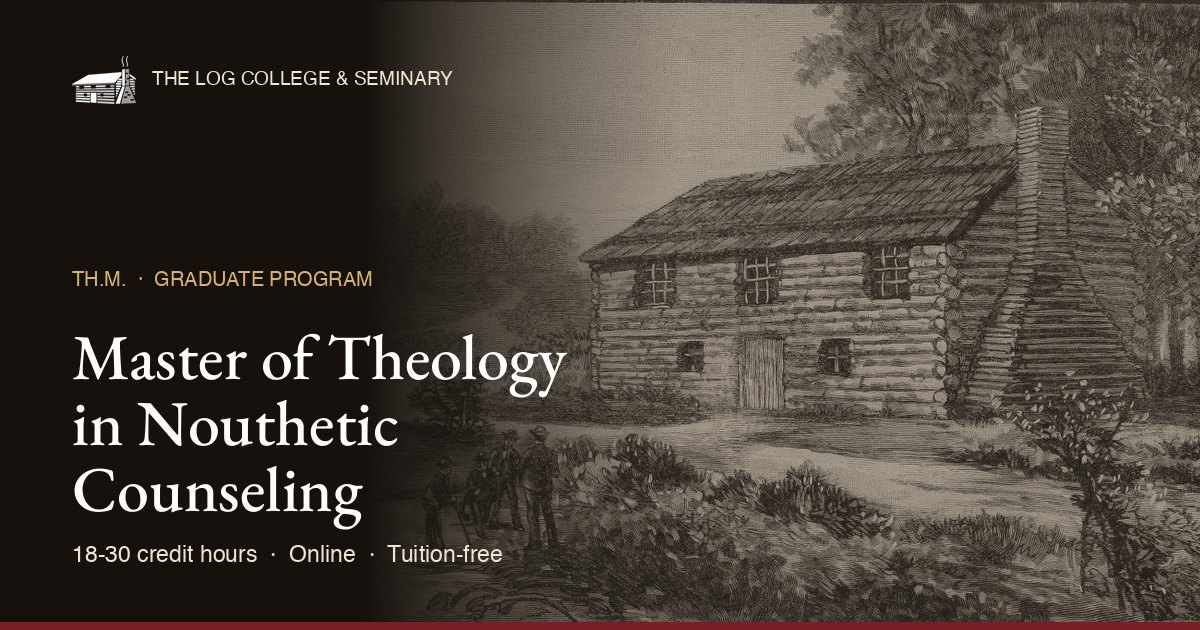
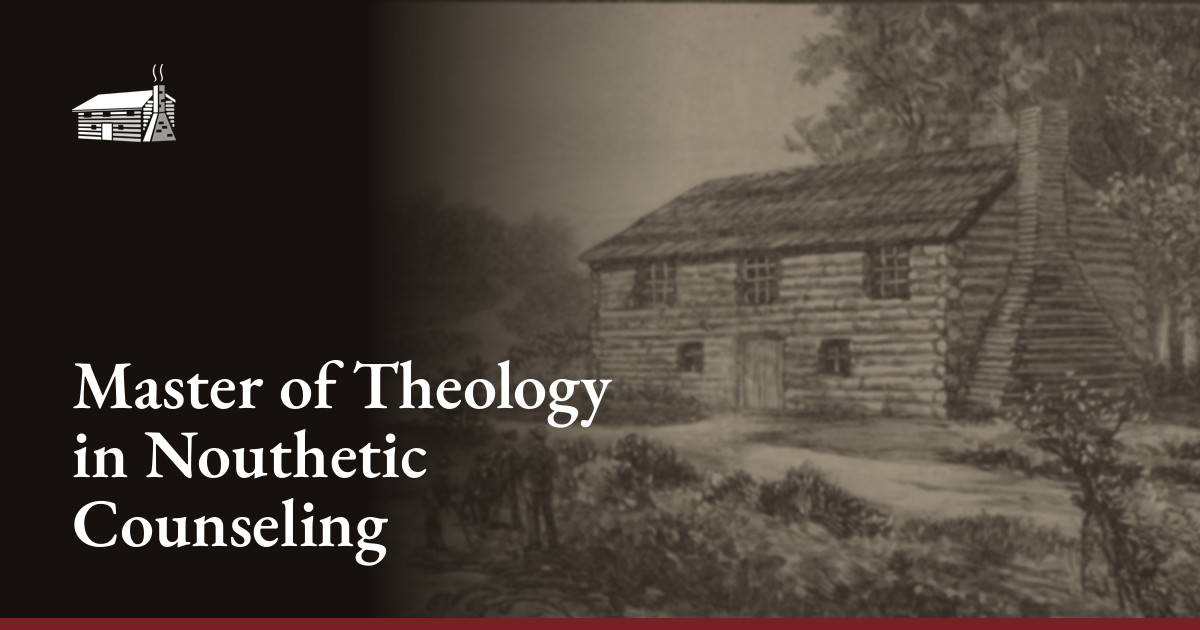
Make preview cards hold up as small thumbnails
Title only, set larger and semibold; larger cabin mark; no small text;
softened engraving; JPEG without chroma subsampling for crisp edges.

diff --git a/tools_og.py b/tools_og.py
@@ -6,7 +6,7 @@ left so one large serif title reads at thumbnail size; one gold line of facts; t
 """
 import json
 from pathlib import Path
-from PIL import Image, ImageDraw, ImageFont, ImageOps
+from PIL import Image, ImageDraw, ImageFilter, ImageFont, ImageOps
 
 ROOT = Path(__file__).parent
 OUT = ROOT / "src" / "assets" / "og"; OUT.mkdir(parents=True, exist_ok=True)
@@ -24,7 +24,8 @@ def garamond(size, weight="Medium"):
 # Background: engraving at full height on the right, sepia duotone, fading into a dark left side
 src = Image.open(ROOT / "src" / "og" / "log-college-engraving.jpg").convert("L")
 eh = H; ew = int(src.width * eh / src.height)
-eng = ImageOps.colorize(src.resize((ew, eh), Image.LANCZOS), black=(24, 19, 15), white=(240, 228, 206)).convert("RGBA")
+soft = src.resize((ew, eh), Image.LANCZOS).filter(ImageFilter.GaussianBlur(1.4))
+eng = ImageOps.colorize(soft, black=(40, 32, 26), white=(226, 212, 186)).convert("RGBA")
 BG = Image.new("RGBA", (W, H), (22, 17, 13, 255))
 ex = W - ew + 40
 BG.paste(eng, (ex, 0))
@@ -39,7 +40,7 @@ BG = Image.composite(Image.new("RGBA", (W, H), (22, 17, 13, 255)), BG, fade)
 
 # Brand mark: the cabin from the logo, in white
 cab = Image.open(ROOT / "src" / "assets" / "cabin.png").convert("RGBA")
-cab.thumbnail((64, 50))
+cab.thumbnail((104, 80))
 white_cab = Image.new("RGBA", cab.size, WHITE + (0,)); white_cab.putalpha(cab.getchannel("A"))
 
 def wrap(d, text, font, width):
@@ -59,28 +60,24 @@ def wrap(d, text, font, width):
     return best
 
 def card(eyebrow, title, facts, name):
+    """One idea per card: the title, set large. Small text does not survive thumbnails, and the
+    platform already prints the site name and description under the image."""
     im = BG.copy(); d = ImageDraw.Draw(im)
-    x, maxw = 72, 520
-    im.paste(white_cab, (x, 56), white_cab)
-    d.text((x + white_cab.width + 16, 56 + white_cab.height // 2), "THE LOG COLLEGE & SEMINARY",
-           font=ImageFont.truetype(SANS, 19), fill=CREAM, anchor="lm")
-    size = 92
+    x, maxw = 72, 560
+    im.paste(white_cab, (x, 64), white_cab)
+    size = 112
     while True:
-        f = garamond(size); lines = wrap(d, title, f, maxw)
+        f = garamond(size, "SemiBold"); lines = wrap(d, title, f, maxw)
         if len(lines) <= 3 and all(d.textlength(l, font=f) <= maxw for l in lines): break
         size -= 4
-    lh = int(size * 1.04)
-    block = lh * len(lines)
-    y = H - 118 - block
-    if eyebrow:
-        d.text((x, y - 44), eyebrow.upper(), font=ImageFont.truetype(SANS, 20), fill=GOLD)
+    lh = int(size * 1.02)
+    y = H - 84 - lh * len(lines)
     for ln in lines:
         d.text((x, y), ln, font=f, fill=WHITE); y += lh
-    d.text((x, H - 86), facts, font=ImageFont.truetype(SANS, 23), fill=CREAM)
-    d.rectangle([0, H - 8, W, H], fill=ACCENT)
-    im.convert("RGB").save(OUT / f"{name}.jpg", quality=86, optimize=True, progressive=True)
+    d.rectangle([0, H - 12, W, H], fill=ACCENT)
+    im.convert("RGB").save(OUT / f"{name}.jpg", quality=90, subsampling=0, optimize=True, progressive=True)
 
-card("A Reformed seminary", "Seminary education, freely given", "11 degree programs  ·  Online  ·  Mentored  ·  Tuition-free", "default")
+card(None, "Seminary education, freely given", None, "default")
 levels = {"undergraduate": "Undergraduate", "graduate": "Graduate", "doctoral": "Doctoral"}
 for p in SITE["programs"]:
     d = json.loads((ROOT / "data" / "programs" / f"{p['slug']}.json").read_text())
